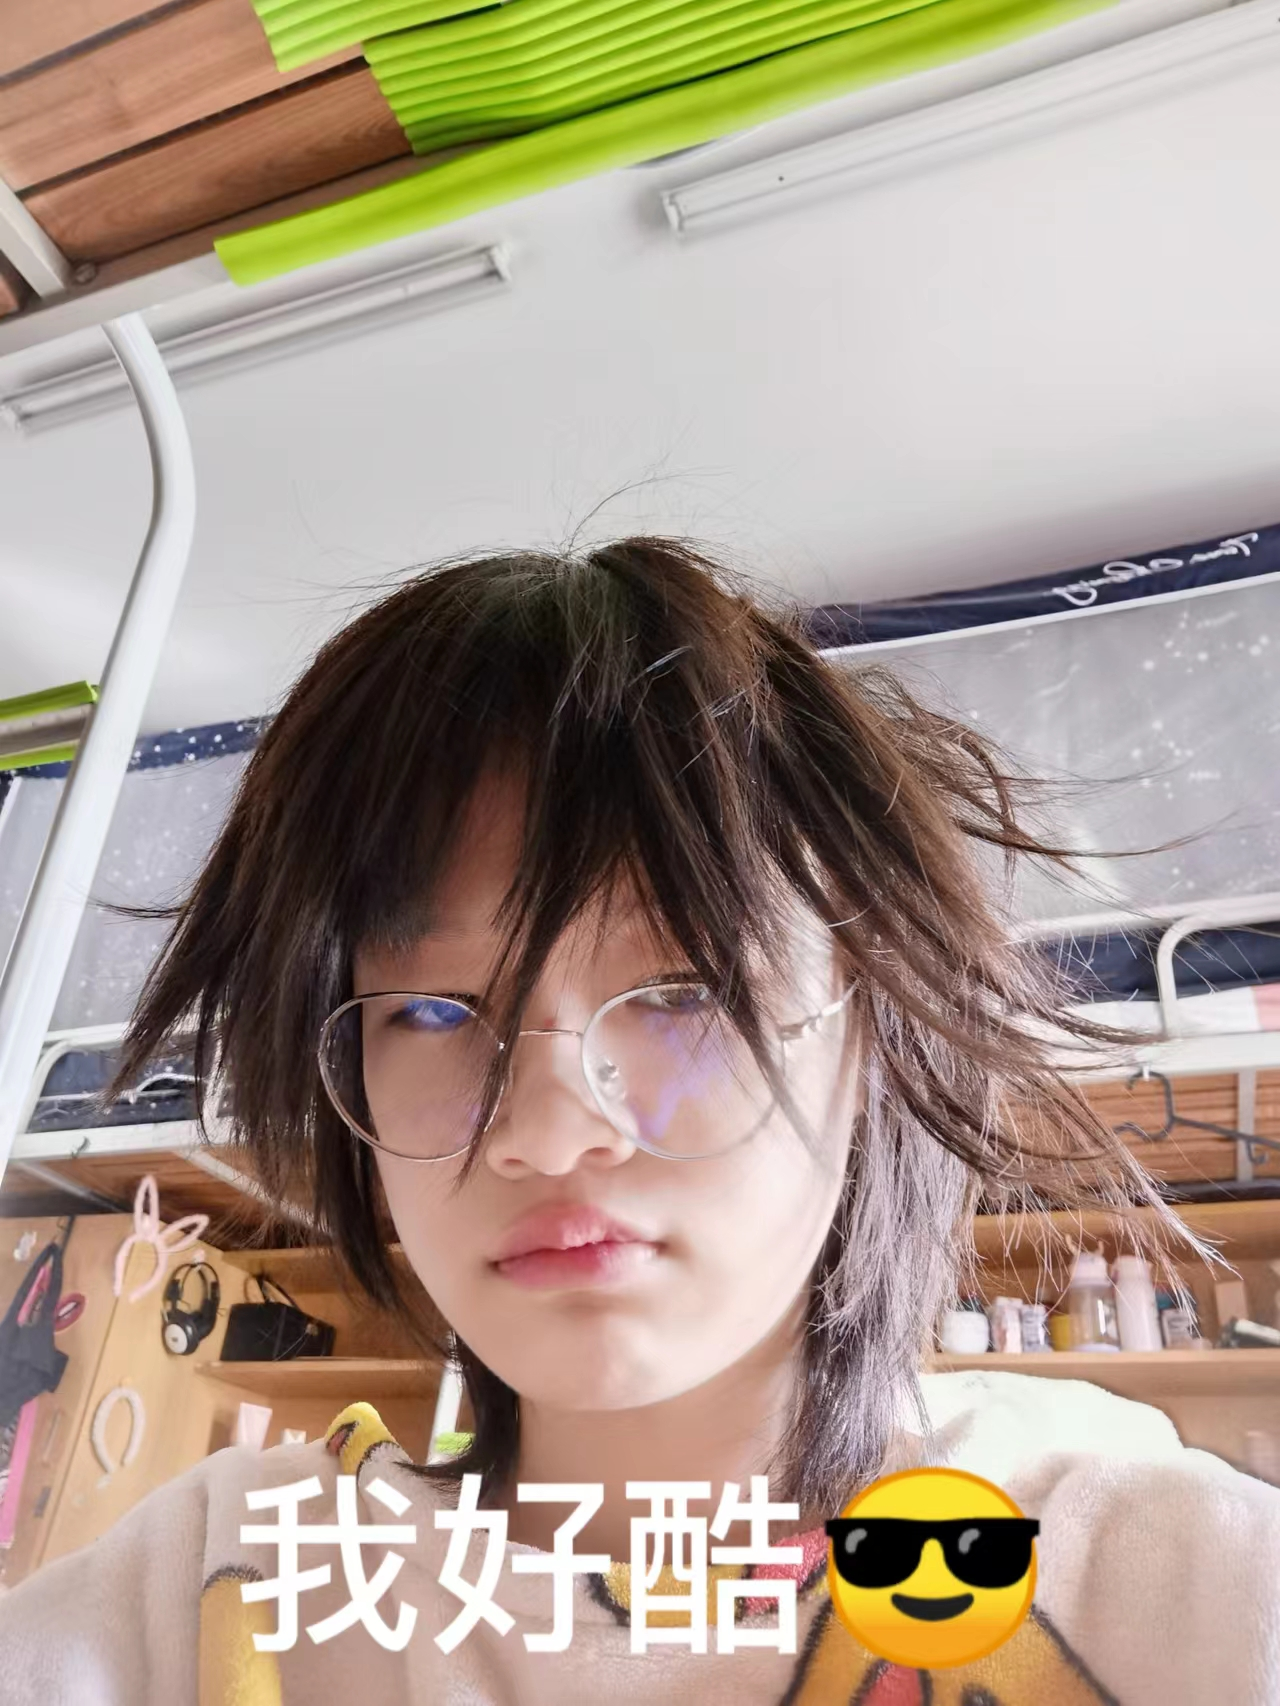
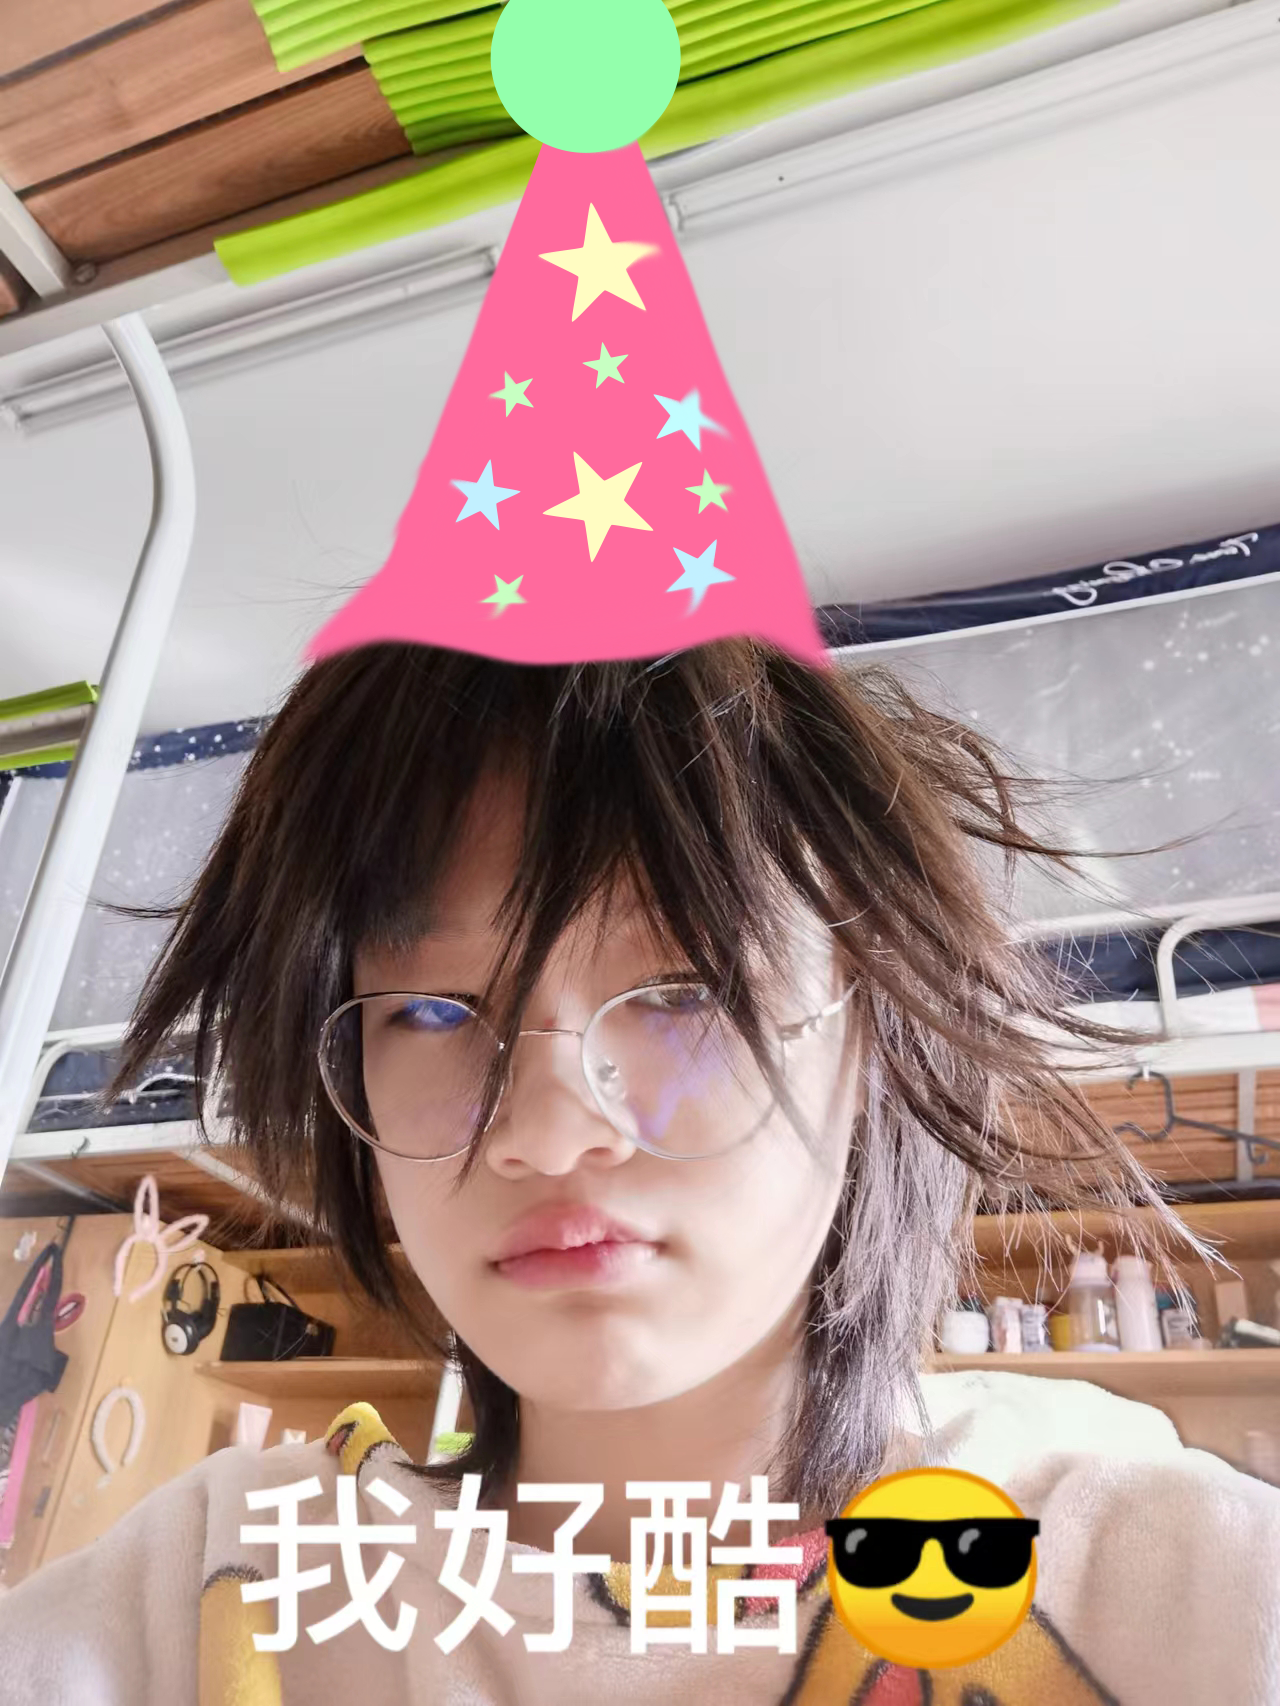
fix

Changed region(s): [[0.2188, 0.0, 0.6562, 0.4039]]

diff --git a/index.html b/index.html
@@ -54,7 +54,7 @@
     </div>
     <div class="six">
       <img src="img/gub1.jpg" alt="" class="lydia-dp" data-node-name="imagePath">
-      <img src="img/hat.svg" alt="" class="hat">
+      <!-- <img src="img/hat.svg" alt="" class="hat"> -->
       <div class="wish">
         <h3 class="wish-hbd" data-node-name="wishHeading">Happy Birthday!</h3>
         <h5 data-node-name="wishText">May the js.prototypes always be with you! ;)</h5>

diff --git a/script/main.js b/script/main.js
@@ -220,12 +220,12 @@ const animationTimeline = () => {
       },
       "-=2"
     )
-    .from(".hat", 0.5, {
-      x: -100,
-      y: 350,
-      rotation: -180,
-      opacity: 0
-    })
+    // .from(".hat", 0.5, {
+    //   x: -100,
+    //   y: 350,
+    //   rotation: -180,
+    //   opacity: 0
+    // })
     .staggerFrom(
       ".wish-hbd span",
       0.7,

diff --git a/style/style.css b/style/style.css
@@ -122,13 +122,6 @@ body {
   height: auto;
 }
 
-.six .hat {
-  position: absolute;
-  width: 110px;
-  top: -90px;
-  left: 50.5%;
-  /* transform: scale(0.1); */
-}
 
 .baloons img {
   display: inline-block;
